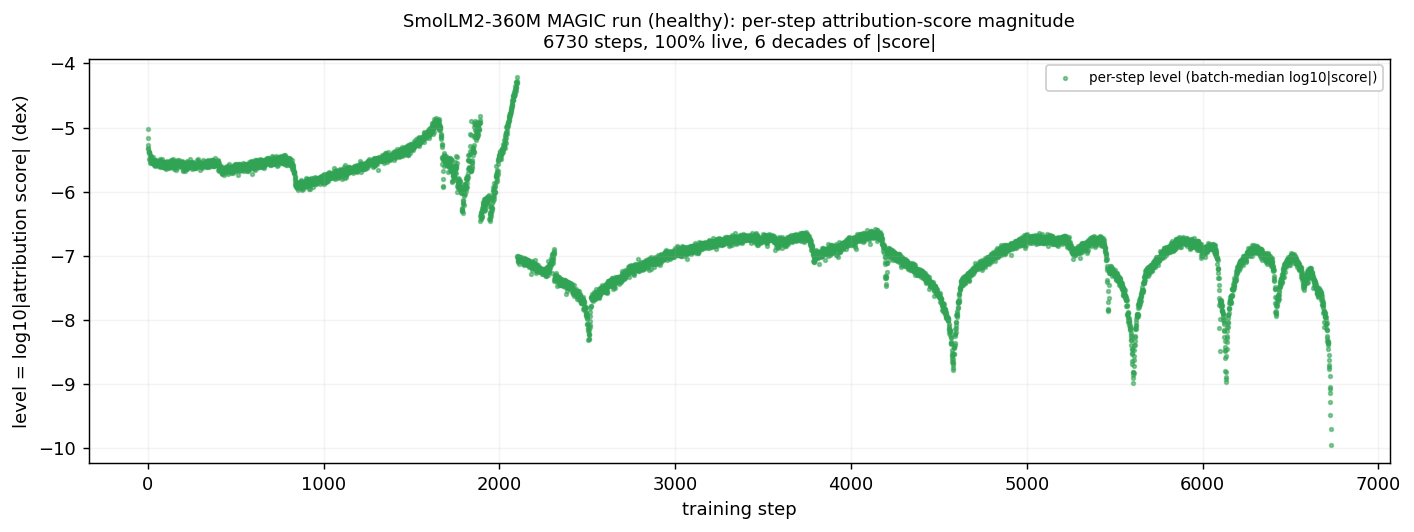
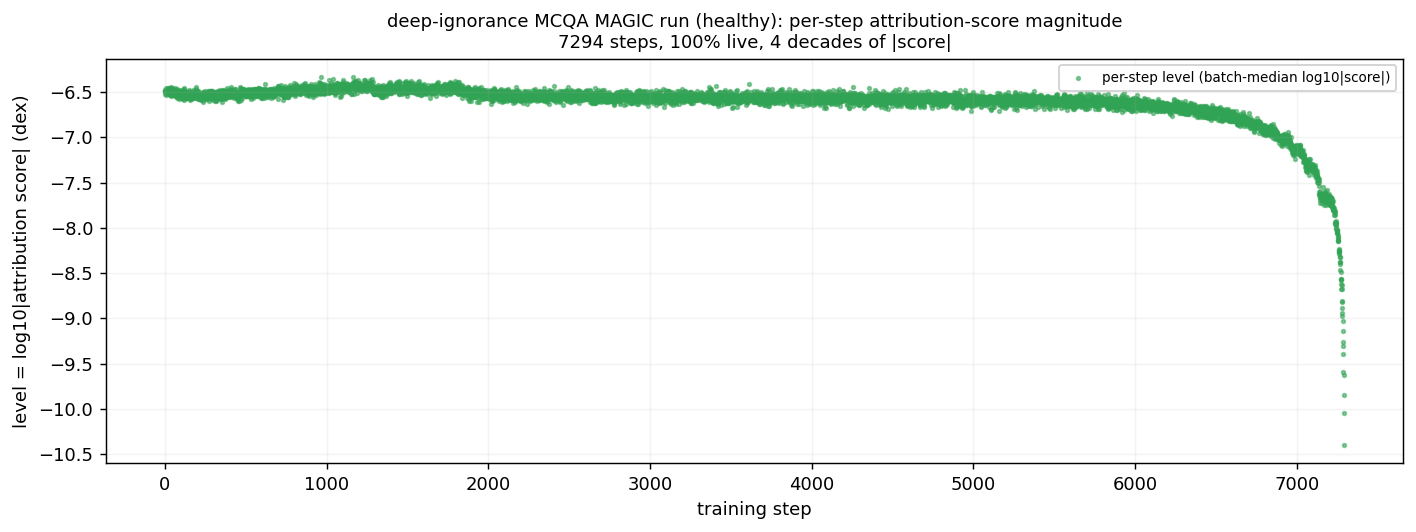
docs(magic): use a genuinely flat run for the healthy example
Replace SmolLM2-360M (which spikes mid-run and rings late) with
magic_medmcqa_di_strong -- a deep-ignorance strong-filter MCQA run whose level
holds a tight band near -6.5 dex for all 7k steps, dipping only in the final tail.
It's also the `magic` example the pipeline docs build.

diff --git a/docs/magic.rst b/docs/magic.rst
@@ -103,10 +103,11 @@ Requires the optional plotting dependency: ``pip install 'bergson[viz]'``.
 
 .. figure:: _static/score_trajectory_healthy.png
    :width: 100%
-   :alt: Per-step attribution-score level for a healthy SmolLM2-360M run.
+   :alt: Per-step attribution-score level for a healthy deep-ignorance MCQA run.
 
-   A healthy run (SmolLM2-360M): every step has a score and the level stays
-   within a ~6-decade band across all ~6.7k steps.
+   A healthy run (deep-ignorance strong-filter on MedMCQA — the ``magic``
+   example from the pipeline). The level holds a tight band near -6.5 dex for the
+   whole run, dipping only in the final few hundred steps.
 
 .. figure:: _static/score_trajectory_pythia.png
    :width: 100%
